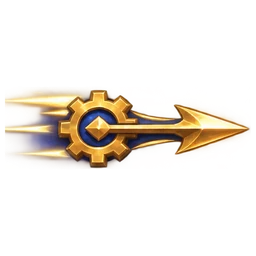
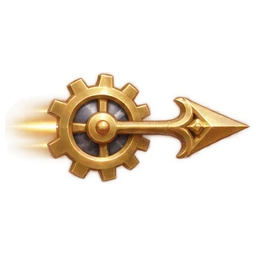
그림 20차분: 신규 9종 탄 수정본, 전용 스킬 전투 연출 9종(극광·블랙홀·시계 폭발·만화경·충격파·진홍 베기·모래 늪·칼날비·가시 정원) 연결

Changed region(s): [[0.0, 0.2812, 0.9688, 0.7188]]

diff --git a/src/systems/Signature.ts b/src/systems/Signature.ts
@@ -9,6 +9,8 @@ import { ART_FILES } from '../ui/art';
 
 /** 기획자 그림이 들어온 효과인지(그림은 비스듬한 시점이라 돌리지 않음) */
 const isArt = (key: string): boolean => !!ART_FILES[key];
+/** 신규 9종 전용 스킬 전투 연출 그림(20차분, public/art/sigfx/sigart-<드래곤>.webp) 키 — 읽혀 있을 때만 */
+const SIGART = (scene: Phaser.Scene, id: string): string | null => (scene.textures.exists(`sigart-${id}`) ? `sigart-${id}` : null);
 
 /** 남는 바닥 효과(불길·냉기·독구름): 일정 간격마다 안의 적에게 피해·상태이상 */
 interface Zone {
@@ -61,7 +63,7 @@ export class Signature {
   private clones: Phaser.GameObjects.Image[] = []; // 만화경 거울 분신
   /** 기본 공격 횟수형(전설 3종): 지금까지 센 기본 공격 수(다 차면 자동 발동 후 0) */
   count = 0;
-  private holes: { x: number; y: number; r: number; left: number; acc: number; perTick: number; g: Phaser.GameObjects.Arc; core: Phaser.GameObjects.Arc }[] = [];
+  private holes: { x: number; y: number; r: number; left: number; acc: number; perTick: number; g: Phaser.GameObjects.Arc | Phaser.GameObjects.Image; core: Phaser.GameObjects.Arc }[] = [];
   private bombs: { x: number; y: number; r: number; left: number; each: number; img: Phaser.GameObjects.Image; ring: Phaser.GameObjects.Arc }[] = [];
   uses = 0;
   /** 이번 사용에서 엘리트·보스에게 넣은 피해(한 번 사용 상한용) */
@@ -135,9 +137,14 @@ export class Signature {
       const r = d.radius! * g.radius;
       const n = this.inCircle(t.x, t.y, r).length;
       const ticks = Math.round(g.lingerMs / 250);
-      const g1 = this.scene.add.circle(t.x, t.y, r * this.h.stats.areaMult, 0x1a0f33, 0.45).setStrokeStyle(5, d.color, 0.9).setDepth(DEPTH_GROUND);
-      const core = this.scene.add.circle(t.x, t.y, 18, 0x000000, 1).setStrokeStyle(4, 0xbfe9ff, 1).setDepth(DEPTH_GROUND + 0.3);
-      this.scene.tweens.add({ targets: g1, angle: 360, duration: g.lingerMs });
+      const art = SIGART(this.scene, 'void');
+      const rr = r * this.h.stats.areaMult;
+      // 그림이 있으면 블랙홀 소용돌이 그림(빛 테두리까지 포함해 반지름보다 조금 크게), 없으면 기존 원
+      const g1 = art
+        ? this.scene.add.image(t.x, t.y, art).setDepth(DEPTH_GROUND).setDisplaySize(rr * 2.3, rr * 2.3).setAlpha(0.95)
+        : this.scene.add.circle(t.x, t.y, rr, 0x1a0f33, 0.45).setStrokeStyle(5, d.color, 0.9).setDepth(DEPTH_GROUND);
+      const core = this.scene.add.circle(t.x, t.y, 18, 0x000000, 1).setStrokeStyle(4, 0xbfe9ff, 1).setDepth(DEPTH_GROUND + 0.3).setVisible(!art);
+      this.scene.tweens.add({ targets: g1, angle: art ? -540 : 360, duration: g.lingerMs });
       this.holes.push({ x: t.x, y: t.y, r, left: g.lingerMs, acc: 0, perTick: per(Math.max(1, n)) / ticks, g: g1, core });
       playSfx(this.scene, 'sfx-explode', { pitch: 0.6 });
       return;
@@ -155,6 +162,17 @@ export class Signature {
   }
 
   private auroraFx(x: number, y: number, ang: number, len: number, half: number): void {
+    const art = SIGART(this.scene, 'aurora');
+    if (art) {
+      // 극광 커튼 그림을 휩쓰는 띠에 맞춰 길게 펼친 뒤 사라짐
+      const im = this.scene.add.image(x + (Math.cos(ang) * len) / 2, y + (Math.sin(ang) * len) / 2, art).setRotation(ang).setDepth(DEPTH_FLASH).setBlendMode(Phaser.BlendModes.ADD);
+      im.setDisplaySize(len, half * 2.6);
+      const sx = im.scaleX;
+      im.setScale(sx * 0.1, im.scaleY);
+      this.scene.tweens.add({ targets: im, scaleX: sx, duration: 260, ease: 'Quad.Out' });
+      this.scene.tweens.add({ targets: im, alpha: 0, duration: 520, delay: 360, onComplete: () => im.destroy() });
+      return;
+    }
     const colors = [0x7cf2c4, 0x7ab8ff, 0xff8de8];
     colors.forEach((c, i) => {
       const off = (i - 1) * half * 0.6;
@@ -175,7 +193,7 @@ export class Signature {
         const dps = this.dps() * this.growth.dmg;
         const each = t.length ? Math.min(dps * this.def.perTargetSec!, (dps * R.aoeTotalCapSec) / t.length) : 0;
         this.dealt.clear();
-        this.burst(b.x, b.y, b.r, this.def.color, null);
+        this.burst(b.x, b.y, b.r, this.def.color, SIGART(this.scene, 'chrono'));
         this.strike(t, each);
         b.img.destroy();
         b.ring.destroy();
@@ -321,7 +339,7 @@ export class Signature {
         break;
       // ── 신규 1묶음 ──
       case 'sand': // 모래 늪: 시전 자리에 남는 지속 피해 + 둔화·약화(머문 적마다 총 DPS × 5초)
-        this.addZone({ x, y, r: rad, left: g.lingerMs, every: 500, perTick: (dps * R.dotSec) / (g.lingerMs / 500), kind: 'sand', follow: false, tex: 'fx-rock-wave' });
+        this.addZone({ x, y, r: rad, left: g.lingerMs, every: 500, perTick: (dps * R.dotSec) / (g.lingerMs / 500), kind: 'sand', follow: false, tex: SIGART(this.scene, 'sand') ?? 'fx-rock-wave' });
         break;
       case 'steel': { // 칼날비: 짧은 시간 검이 연달아 떨어짐(처음 3자루는 엘리트·보스 우선)
         const dur = d.durationMs!;
@@ -332,7 +350,7 @@ export class Signature {
       case 'bloom': { // 가시 정원: 드래곤 둘레에 가시 꽃(다가온 적을 붙잡고 피해, 꽃마다 3번)
         for (let i = 0; i < g.count; i++) {
           const a = (i / g.count) * Math.PI * 2 + Math.PI / 4;
-          this.addZone({ x: x + Math.cos(a) * rad, y: y + Math.sin(a) * rad, r: 1.2 * 50 * g.radius, left: g.lingerMs, every: 250, perTick: dps * 2, kind: 'thorn', follow: false, tex: 'fx-thorn', charges: 3 }, true);
+          this.addZone({ x: x + Math.cos(a) * rad, y: y + Math.sin(a) * rad, r: 1.2 * 50 * g.radius, left: g.lingerMs, every: 250, perTick: dps * 2, kind: 'thorn', follow: false, tex: SIGART(this.scene, 'bloom') ?? 'fx-thorn', charges: 3 }, true);
         }
         break;
       }
@@ -341,8 +359,16 @@ export class Signature {
         for (let w = 0; w < waves; w++) {
           this.later(w * 350, () => {
             const p = this.h.player;
-            const ring = this.scene.add.circle(p.x, p.y, 20).setStrokeStyle(12, d.color, 0.9).setDepth(DEPTH_FLASH);
-            this.scene.tweens.add({ targets: ring, radius: rad * this.h.stats.areaMult, alpha: 0.1, duration: 320, onComplete: () => ring.destroy() });
+            const art = SIGART(this.scene, 'howl');
+            if (art) {
+              // 충격파 그림(고리 중심이 그림 위에서 42%)이 범위 끝까지 커짐
+              const size = rad * this.h.stats.areaMult * 2.15;
+              const im = this.scene.add.image(p.x, p.y, art).setOrigin(0.5, 0.42).setDepth(DEPTH_FLASH).setDisplaySize(40, 40).setBlendMode(Phaser.BlendModes.ADD);
+              this.scene.tweens.add({ targets: im, displayWidth: size, displayHeight: size, alpha: 0.15, duration: 340, ease: 'Quad.Out', onComplete: () => im.destroy() });
+            } else {
+              const ring = this.scene.add.circle(p.x, p.y, 20).setStrokeStyle(12, d.color, 0.9).setDepth(DEPTH_FLASH);
+              this.scene.tweens.add({ targets: ring, radius: rad * this.h.stats.areaMult, alpha: 0.1, duration: 320, onComplete: () => ring.destroy() });
+            }
             const t = this.inCircle(p.x, p.y, rad);
             this.strike(t, aoePerTarget(dps, t.length) / waves);
           });
@@ -351,7 +377,7 @@ export class Signature {
         break;
       }
       case 'crimson': { // 진홍의 갈증: 주변 베기 + 준 피해의 10%만큼 회복(최대 HP 25%까지)
-        this.burst(x, y, rad, d.color, null);
+        this.burst(x, y, rad, d.color, SIGART(this.scene, 'crimson'));
         const t = this.inCircle(x, y, rad);
         const dealt = this.strike(t, aoePerTarget(dps, t.length));
         this.healPct(Math.min(0.25, (dealt * 0.1) / Math.max(1, this.h.stats.maxHp)));
@@ -361,6 +387,13 @@ export class Signature {
         const dur = g.lingerMs;
         const ticks = Math.round(dur / 500);
         this.spawnClones(g.count);
+        const mArt = SIGART(this.scene, 'mirror');
+        if (mArt) {
+          // 만화경 마법진: 분신이 도는 동안 드래곤 발밑에서 천천히 돎(end()에서 사라짐)
+          this.bubble?.destroy();
+          this.bubble = this.scene.add.image(x, y, mArt).setDepth(DEPTH_GROUND + 0.4).setDisplaySize(230, 230).setAlpha(0.75);
+          this.scene.tweens.add({ targets: this.bubble, angle: 360, duration: 6000, repeat: -1 });
+        }
         this.startTicks(dur, 500, (dps * R.singleSec) / (ticks * g.count));
         break;
       }
@@ -487,6 +520,12 @@ export class Signature {
   private swordFx(x: number, y: number): void {
     const img = this.scene.add.image(x, y - 140, 'fx-sword').setDepth(DEPTH_FLASH).setAlpha(0.95);
     this.scene.tweens.add({ targets: img, y, duration: 120, ease: 'Quad.In', onComplete: () => {
+      const sArt = SIGART(this.scene, 'steel');
+      if (sArt) {
+        // 칼날비 착지: 검이 꽂히며 갈라진 땅·불꽃 그림
+        const hit = this.scene.add.image(x, y - 20, sArt).setDepth(DEPTH_FLASH).setDisplaySize(150, 150).setAlpha(0.95);
+        this.scene.tweens.add({ targets: hit, alpha: 0, duration: 380, delay: 80, onComplete: () => hit.destroy() });
+      }
       const ring = this.scene.add.circle(x, y, 1.2 * 50 * this.h.stats.areaMult, 0xc9d0d6, 0.3).setStrokeStyle(3, 0xff8a2a, 0.8).setDepth(DEPTH_FLASH);
       this.scene.tweens.add({ targets: [img, ring], alpha: 0, duration: 260, onComplete: () => (img.destroy(), ring.destroy()) });
     } });
@@ -515,7 +554,7 @@ export class Signature {
     const img = this.scene.add.image(z.x, z.y, z.tex).setDepth(DEPTH_GROUND).setAlpha(0).setTint(z.tex === 'fx-ice-crystal' ? 0xffffff : 0xffffff);
     img.setDisplaySize(z.r * 2, z.r * 2);
     void color;
-    if (z.kind === 'sand') img.setTint(0xe6c38f); // 모래 늪: 바위 파동 그림을 모래색으로
+    if (z.kind === 'sand' && z.tex === 'fx-rock-wave') img.setTint(0xe6c38f); // 모래 늪: 바위 파동 그림을 모래색으로
     this.scene.tweens.add({ targets: img, alpha: z.kind === 'frost' ? 0.45 : z.kind === 'thorn' ? 1 : 0.6, duration: 200 });
     this.zones.push({ ...z, acc: 0, img });
   }
@@ -532,7 +571,7 @@ export class Signature {
         z.y = this.h.player.y;
         z.img.setPosition(z.x, z.y);
       }
-      if (!isArt(z.img.texture.key)) z.img.rotation += (z.kind === 'poison' ? 0.4 : 0.15) * (delta / 1000);
+      if (!isArt(z.img.texture.key) || z.img.texture.key === 'sigart-sand') z.img.rotation += (z.kind === 'poison' ? 0.4 : z.kind === 'sand' ? 0.6 : 0.15) * (delta / 1000);
       z.left -= delta;
       z.acc += delta;
       while (z.acc >= z.every) {

diff --git a/src/systems/BasicAttack.ts b/src/systems/BasicAttack.ts
@@ -547,13 +547,13 @@ export class BasicAttack {
         rg.delay -= delta;
         return true;
       }
-      // 그림(fx-sound-ring, 19차분)이 있으면 그것을 고리 크기에 맞춰 키움. 그림의 고리 바깥 반지름 = 그림 크기의 30.5%
+      // 그림(fx-sound-ring, 19차분)이 있으면 그것을 고리 크기에 맞춰 키움. 그림의 고리 바깥 반지름 = 그림 크기의 43%(20차분 수정본)
       if (!rg.g) rg.g = this.h.scene.textures.exists('fx-sound-ring')
         ? this.h.scene.add.image(x, y, 'fx-sound-ring').setDepth(8).setBlendMode(Phaser.BlendModes.ADD)
         : this.h.scene.add.circle(x, y, 10).setStrokeStyle(6, 0x8fa8ff, 0.85).setDepth(8);
       rg.r = Math.min(rg.max, rg.r + rg.max * speed * (delta / 1000));
       rg.g.setPosition(x, y).setAlpha(1 - (rg.r / rg.max) * 0.6);
-      if (rg.g instanceof Phaser.GameObjects.Image) rg.g.setDisplaySize(Math.max(8, rg.r) / 0.305, Math.max(8, rg.r) / 0.305);
+      if (rg.g instanceof Phaser.GameObjects.Image) rg.g.setDisplaySize(Math.max(8, rg.r) / 0.43, Math.max(8, rg.r) / 0.43);
       else rg.g.setRadius(rg.r);
       for (const e of this.h.enemies()) {
         if (!e.active || rg.hit.has(e.uid) || Phaser.Math.Distance.Between(x, y, e.x, e.y) > rg.r + e.def.radius) continue;

diff --git a/src/ui/art.ts b/src/ui/art.ts
@@ -115,6 +115,8 @@ export const ART_FILES: Record<string, string> = {
   ...Object.fromEntries(['dragon', 'gear', 'rune', 'mega'].map((k) => [`pkg-${k}`, `shop/pkg-${k}.webp`])), // 패키지 그림(16차분)
   ...Object.fromEntries(['free', 'premium', 'royal'].map((k) => [`pass-${k}`, `pass/pass-${k}.webp`])), // 드래곤 패스 상자(17차분)
   // 19차분(2026-11-24, 그림 요청서 7 ②, scripts/process_art_batch19.py): 신규 9종 기본 공격 탄·고리·베기 256px — dragonArt.applyProjectileArt가 bolt-* 로 바꿔 씀
+  // 20차분(2026-11-24, scripts/process_art_batch20.py): 탄 수정본(아래 같은 파일 덮어씀) + 신규 9종 전용 스킬 전투 연출 512px(Signature.ts SIGART)
+  ...Object.fromEntries(['aurora', 'void', 'chrono', 'mirror', 'howl', 'crimson', 'sand', 'steel', 'bloom'].map((id) => [`sigart-${id}`, `sigfx/sigart-${id}.webp`])),
   ...Object.fromEntries(['proj-aurora', 'proj-mirror', 'proj-chrono', 'proj-void', 'proj-sand', 'proj-steel', 'proj-bloom', 'fx-sound-ring', 'fx-crimson-slash'].map((k) => [k, `proj/${k}.webp`])),
 };
 

diff --git a/scripts/process_art_batch20.py b/scripts/process_art_batch20.py
@@ -1,0 +1,88 @@
+"""20차분(2026-11-24): 제작자 ChatGPT 공유 링크 두 장(1254×1254, 투명 배경, 3×3).
+- art-src/sig9/a.png: 19차분 탄 9종 수정본(본체 크게, 미러 팔각 결정, 하울 가운데 빈 고리) → public/art/proj/<이름>.webp 256 (19차분 덮어씀)
+- art-src/sig9/b.png: 신규 9종 전용 스킬 전투 연출 → public/art/sigfx/sigart-<드래곤>.webp 512
+  (키를 sigart-로 둔 이유: sigfx-<드래곤>은 15차분 '시전 번쩍임' 그림 키라 겹치면 시전 때 엉뚱하게 뜬다)"""
+from pathlib import Path
+from PIL import Image
+
+ROOT = Path(__file__).resolve().parent.parent
+A = ROOT / 'art-src' / 'sig9' / 'a.png'
+B = ROOT / 'art-src' / 'sig9' / 'b.png'
+PROJ = [['proj-aurora', 'proj-mirror', 'proj-chrono'], ['proj-void', 'proj-sand', 'proj-steel'], ['proj-bloom', 'fx-sound-ring', 'fx-crimson-slash']]
+SIG = [['aurora', 'void', 'chrono'], ['mirror', 'howl', 'crimson'], ['sand', 'steel', 'bloom']]
+
+
+def isolate(im: Image.Image) -> Image.Image:
+    """가장 큰 덩어리만 남김(옆 칸에서 넘어온 조각 제거): 1/4로 줄인 알파(>40)에서 연결 성분을 찾아
+    가장 큰 것(한 칸 넓힘)만 두고 나머지 픽셀은 투명으로"""
+    k = 4
+    small = im.getchannel('A').resize((im.width // k, im.height // k), Image.BOX)
+    w, h = small.size
+    sp = small.load()
+    on = [[sp[x, y] > 40 for x in range(w)] for y in range(h)]
+    seen = [[False] * w for _ in range(h)]
+    best: list[tuple[int, int]] = []
+    for y0 in range(h):
+        for x0 in range(w):
+            if not on[y0][x0] or seen[y0][x0]:
+                continue
+            comp, stack = [], [(x0, y0)]
+            seen[y0][x0] = True
+            while stack:
+                x, y = stack.pop()
+                comp.append((x, y))
+                for dx, dy in ((1, 0), (-1, 0), (0, 1), (0, -1), (1, 1), (-1, -1), (1, -1), (-1, 1)):
+                    nx, ny = x + dx, y + dy
+                    if 0 <= nx < w and 0 <= ny < h and on[ny][nx] and not seen[ny][nx]:
+                        seen[ny][nx] = True
+                        stack.append((nx, ny))
+            if len(comp) > len(best):
+                best = comp
+    keep = Image.new('L', (w, h), 0)
+    kp = keep.load()
+    for x, y in best:
+        for dx in (-2, -1, 0, 1, 2):
+            for dy in (-2, -1, 0, 1, 2):
+                if 0 <= x + dx < w and 0 <= y + dy < h:
+                    kp[x + dx, y + dy] = 255
+    mask = keep.resize(im.size, Image.NEAREST)
+    out = im.copy()
+    a = Image.composite(im.getchannel('A'), Image.new('L', im.size, 0), mask)
+    out.putalpha(a)
+    return out
+
+
+def fit_square(im: Image.Image, size: int, pad: float) -> Image.Image:
+    im = isolate(im)
+    bbox = im.getchannel('A').point(lambda a: 255 if a > 12 else 0).getbbox()
+    if bbox:
+        im = im.crop(bbox)
+    side = int(max(im.size) / (1 - 2 * pad))
+    canvas = Image.new('RGBA', (side, side), (0, 0, 0, 0))
+    canvas.alpha_composite(im, ((side - im.width) // 2, (side - im.height) // 2))
+    return canvas.resize((size, size), Image.LANCZOS)
+
+
+def cut(src: Path, names, out_dir: Path, size: int, prefix: str = '') -> None:
+    sheet = Image.open(src).convert('RGBA')
+    cw, ch = sheet.width // 3, sheet.height // 3
+    out_dir.mkdir(parents=True, exist_ok=True)
+    for r, row in enumerate(names):
+        for c, name in enumerate(row):
+            cell = sheet.crop((c * cw, r * ch, (c + 1) * cw, (r + 1) * ch))
+            out = out_dir / f'{prefix}{name}.webp'
+            img = fit_square(cell, size, 0.02)
+            if name == 'howl':  # 둥근 충격파: 아래 칸(칼날비) 칼끝이 붙어 들어와 둥근 가림막으로 정리
+                from PIL import ImageDraw
+                m = Image.new('L', img.size, 0)
+                ImageDraw.Draw(m).ellipse((int(img.width * 0.03), 0, int(img.width * 0.97), int(img.height * 0.8)), fill=255)
+                from PIL import ImageFilter
+                m = m.filter(ImageFilter.GaussianBlur(img.width * 0.03))
+                from PIL import ImageChops
+                img.putalpha(ImageChops.multiply(img.getchannel('A'), m))
+            img.save(out, 'WEBP', quality=88, method=6)
+            print(out.name, out.stat().st_size)
+
+
+cut(A, PROJ, ROOT / 'public' / 'art' / 'proj', 256)
+cut(B, SIG, ROOT / 'public' / 'art' / 'sigfx', 512, 'sigart-')

diff --git a/docs/AI_LOG.md b/docs/AI_LOG.md
@@ -550,3 +550,13 @@
 **내가 판단한 것**: 요청서 7의 ①(카드 아이콘 4)과 ②(탄 9) 그림을 ChatGPT 이미지로 만들어 공유 링크로 줌. 고칠 것이 있으면 알려 달라고 함.
 **AI에게 맡긴 것**: 공유 링크에서 원본(1254px·1536×1024, 투명 배경) 내려받기(`art-src/basic4`·`art-src/proj9`, git 제외), 어느 그림이 어느 드래곤인지 대조(아이콘: 1 미러·2 오로라·3 보이드·4 크로노), 256px WebP 가공(`scripts/process_art_batch18.py`·`19.py`), 코드 연결: 카드 아이콘 `basic-*`, 탄은 `dragonArt.applyProjectileArt`가 예전 도형(`bolt-*`)을 같은 키로 바꿈(화면 크기·충돌 판정 그대로), 하울 고리는 그림을 고리 반지름에 맞춰 키움(그림 고리 바깥 반지름 = 30.5%), 크림슨은 베는 방향으로 초승달 그림 + 옅은 범위.
 **확인**: 하울 고리 가운데 투명(알파 1/255), 9장 모두 배경 투명. 브라우저(테스트 탭): 아이콘 4장·탄 텍스처 교체 확인, 오로라 전투에서 빛살 표시. 테스트 241개.
+
+## 그림 20차분: 탄 수정본 · 신규 9종 전용 스킬 전투 연출 · 서버 배포 보류 (2026-11-24)
+**내가 판단한 것**: AI가 짚은 수정점(본체 크게·미러 팔각·하울 가운데 빈 고리)으로 탄 9종을 다시 만들고, 신규 9종 전용 스킬 연출 9장도 만들어 공유 링크로 줌. 서버 함수 배포는 RevenueCat 비밀 값이 없어 **계약 활성 뒤 결제 함수와 함께**(제작자 확정).
+**AI에게 맡긴 것**:
+- 3×3 합본 2장 자르기(`scripts/process_art_batch20.py`): 칸 경계를 넘은 옆 칸 조각을 "가장 큰 덩어리만 남기기"로 제거, 하울 충격파는 아래 칸 칼끝이 붙어 있어 부드러운 원형 가림.
+- 연출 키를 `sigart-<드래곤>`으로 따로 둠(`sigfx-`는 15차분 시전 번쩍임 키라 겹치면 시전 때 같이 뜸).
+- 연결: 오로라 극광 커튼(휩쓰는 띠 길이에 맞춰 펼침), 보이드 블랙홀(반대로 돎), 크로노 폭발·크림슨 베기(폭발 그림), 미러 만화경(분신 도는 동안 발밑에서 돎), 하울 충격파(고리 3겹 그림이 범위까지 커짐), 샌드 모래 늪(바닥에서 천천히 돎, 예전 스톤 그림 빌려 쓰던 것 대체), 스틸 칼날비(검 착지마다 균열 그림), 블룸 가시 정원. 하울 기본 공격 고리 비율 30.5% → 43%(수정본).
+- 첫 배포 시도: Firebase 도구 설치·제작자 로그인 → 배포 중 비밀 값(RevenueCat 키) 없음으로 중단. 이때 필요한 구글 기능 4개(Cloud Functions·Cloud Build·Artifact Registry·Firebase Extensions)가 켜짐. 시트 10행 메모에 기록.
+**확인**: 테스트 241개, 웹 빌드. 브라우저(테스트 탭, 연출만 1/10 속도로 늦춰 촬영): 하울·오로라·미러·보이드·크림슨·샌드 연출 표시. 스틸·블룸·크로노는 같은 코드 경로라 그림 등록만 확인(화면 미촬영).
+**AI 실수**: 셸 한 줄 스크립트에 따옴표가 섞여 실행이 깨짐 → 스크립트 파일로 바꿔 실행. 첫 확인 때 레벨업 카드 창이 게임을 멈춰 연출이 안 나와 원인 찾는 데 시간 씀.
